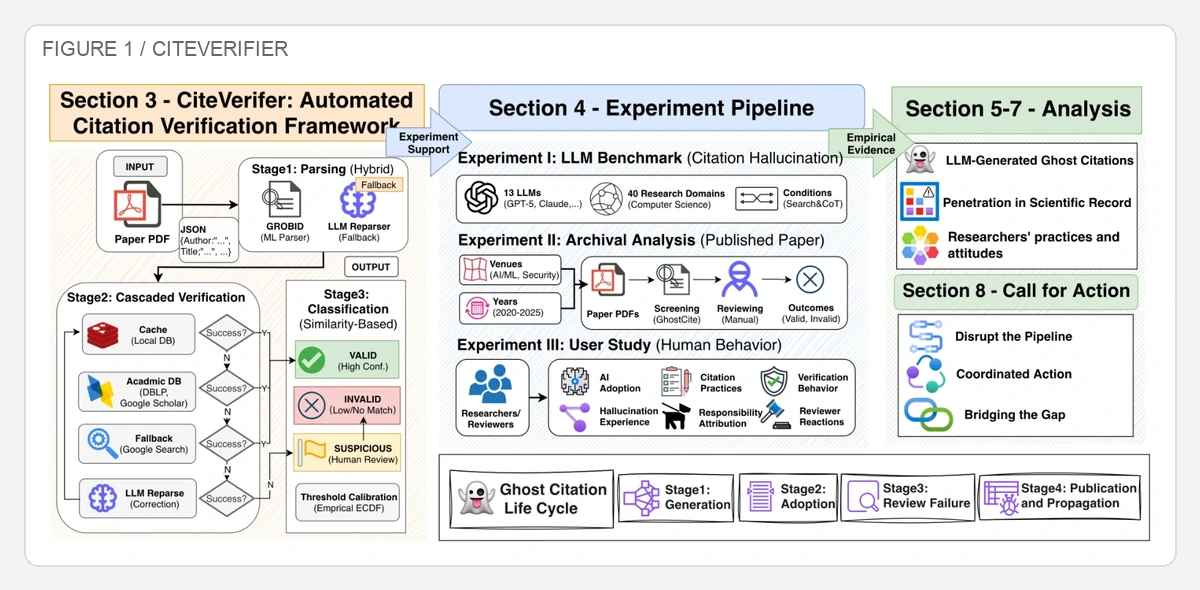
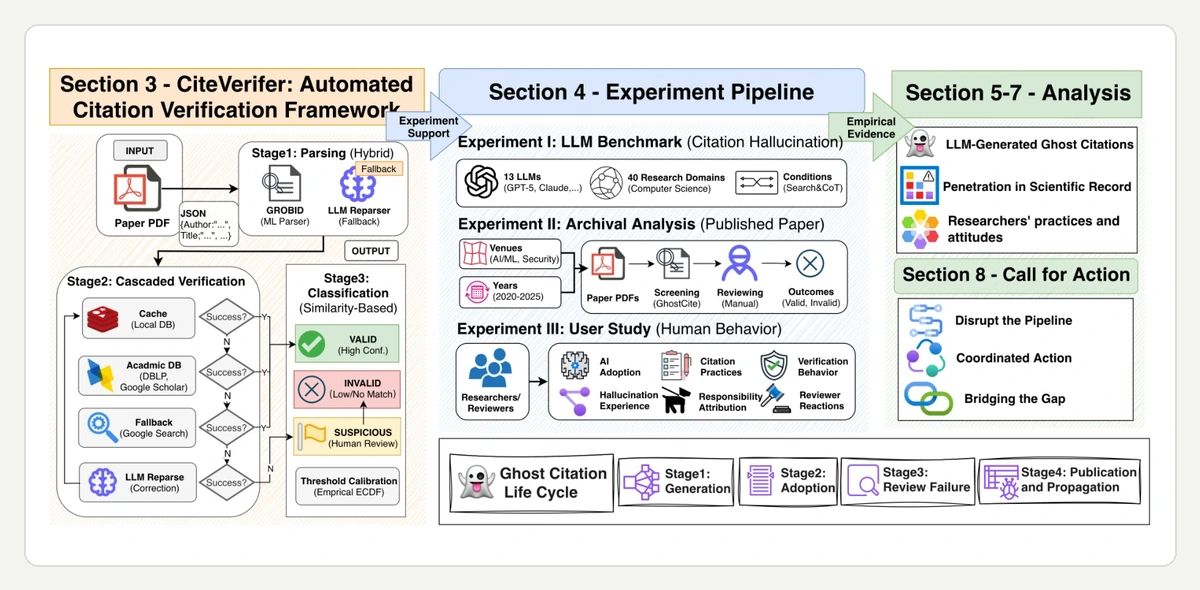
Remove added headings from research figure previews

diff --git a/scripts/compose-previews.py b/scripts/compose-previews.py
@@ -6,13 +6,12 @@ never cropped to fill a frame.
 """
 from pathlib import Path
 import json
-from PIL import Image, ImageDraw, ImageFont, ImageChops, ImageOps
+from PIL import Image, ImageDraw, ImageChops, ImageOps
 
 ROOT = Path(__file__).resolve().parents[1]
 PUBLIC = ROOT / 'public'
 OUTPUT = PUBLIC / 'media/previews'
 OUTPUT.mkdir(parents=True, exist_ok=True)
-FONT = ImageFont.truetype('/System/Library/Fonts/Supplemental/Arial.ttf', 20) if Path('/System/Library/Fonts/Supplemental/Arial.ttf').exists() else ImageFont.load_default()
 CAPTIONS = {
     'ollama-in-the-wild': ('Version turnover: daily version-share evolution (Figure 5).','版本更替：每日版本占比变化（图 5）。'),
     'ghostcite': ('The CiteVerifier framework and experimental pipeline (Figure 1).','CiteVerifier 框架与实验流程（图 1）。'),
@@ -44,17 +43,14 @@ def load_image(src):
     return image
 
 
-def panel(canvas, src, box, label=''):
+def panel(canvas, src, box):
     x, y, w, h = box
     draw = ImageDraw.Draw(canvas)
     draw.rounded_rectangle((x,y,x+w,y+h), radius=14, fill='white', outline='#dededb', width=2)
     padding = 18
-    label_height = 32 if label else 0
-    if label:
-        draw.text((x+padding,y+13), label, font=FONT, fill='#686863')
     image = load_image(src)
-    image = ImageOps.contain(image, (w-padding*2,h-padding*2-label_height), Image.Resampling.LANCZOS)
-    canvas.paste(image,(x+(w-image.width)//2,y+label_height+(h-label_height-image.height)//2))
+    image = ImageOps.contain(image, (w-padding*2,h-padding*2), Image.Resampling.LANCZOS)
+    canvas.paste(image,(x+(w-image.width)//2,y+(h-image.height)//2))
 
 
 def compose(detail, kind):
@@ -64,24 +60,24 @@ def compose(detail, kind):
     sources = {Path(i['src']).stem:i['src'] for i in images}
     if slug == 'ollama-in-the-wild':
         canvas = Image.new('RGB',(1200,440),'#f4f4f1')
-        panel(canvas,sources['ollama-version-turnover'],(24,24,1152,392),'FIGURE 5 / VERSION TURNOVER')
+        panel(canvas,sources['ollama-version-turnover'],(24,24,1152,392))
     elif slug == 'ghostcite':
         canvas = Image.new('RGB',(1200,590),'#f4f4f1')
-        panel(canvas,sources['ghostcite-framework'],(24,24,1152,542),'FIGURE 1 / CITEVERIFIER')
+        panel(canvas,sources['ghostcite-framework'],(24,24,1152,542))
     elif slug == 'cairn':
         canvas = Image.new('RGB',(1200,440),'#f4f4f1')
-        panel(canvas,sources['cairn-dag'],(24,24,1152,392),'FIGURE 1 / SHARED FACT-INTENT DAG')
+        panel(canvas,sources['cairn-dag'],(24,24,1152,392))
     elif slug == 'agent-transfer-protocol':
-        panel(canvas,sources['atp-paper-architecture'],(28,28,1144,704),'FIGURE 1 / CROSS-DOMAIN ARCHITECTURE')
+        panel(canvas,sources['atp-paper-architecture'],(28,28,1144,704))
     elif slug == 'proof-of-agentness':
         canvas = Image.new('RGB',(1200,530),'#f4f4f1')
-        panel(canvas,sources['poa-web-context'],(24,24,1152,482),'FIGURE 1 / HUMANS, AGENTS, AND SCRIPTED ABUSE')
+        panel(canvas,sources['poa-web-context'],(24,24,1152,482))
     elif slug == 'acaptcha':
-        panel(canvas,sources['acaptcha-timing'],(28,130,640,500),'FIGURE 2 / TIMING SEPARATION')
-        panel(canvas,sources['acaptcha-threshold'],(690,200,482,360),'FIGURE 3 / THRESHOLD')
+        panel(canvas,sources['acaptcha-timing'],(28,130,640,500))
+        panel(canvas,sources['acaptcha-threshold'],(690,200,482,360))
     elif slug == 'rebirthday':
-        panel(canvas,sources['rebirthday-comparison'],(28,85,520,590),'FIGURE 4 / BIRTHDAY ATTACK')
-        panel(canvas,sources['rebirthday-model'],(570,205,602,350),'FIGURE 5 / THREAT MODEL')
+        panel(canvas,sources['rebirthday-comparison'],(28,85,520,590))
+        panel(canvas,sources['rebirthday-model'],(570,205,602,350))
     elif slug == 'qq-robot':
         for i,key in enumerate(['qq-robot','qq-robot-conversation','qq-robot-voice']):
             panel(canvas,sources[key],(24+i*392,28,368,704))
